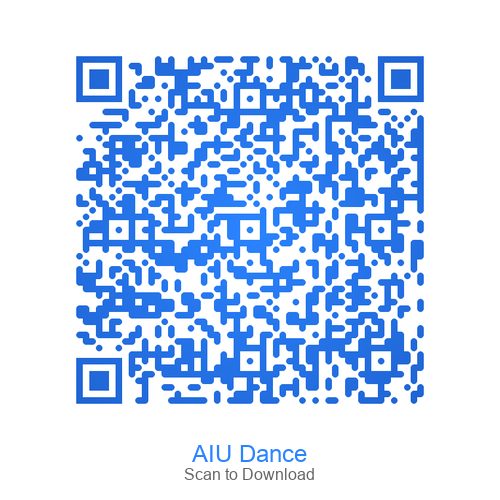
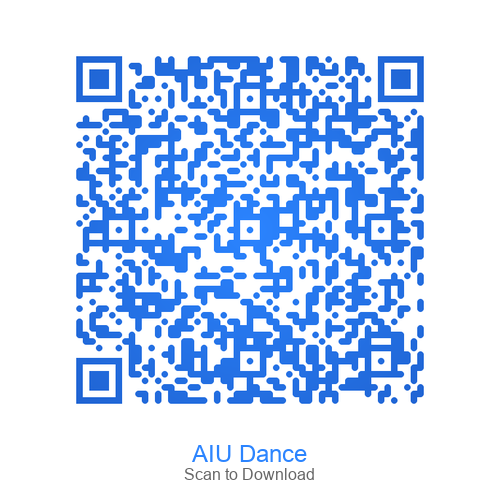
update: download page with new APK v1.0.2+3
- Updated download link to v1.0.2-fixed release
- Updated APK size to 28 MB
- Regenerated QR code for new APK version
- Ready for Firebase deployment

diff --git a/public/download.html b/public/download.html
@@ -187,17 +187,17 @@
         </div>
         
         <div class="size-info">
-            <strong>📦 Dimensiune:</strong> 29.4 MB (optimizată)<br>
+            <strong>📦 Dimensiune:</strong> 28 MB (optimizată)<br>
             <strong>📱 Compatibilitate:</strong> Android 6.0+<br>
             <strong>🔧 Arhitectură:</strong> ARM64 (99% telefoane)
         </div>
         
         <!-- Main Download Button -->
-        <a href="https://github.com/AdiVlop/aiu-dance-app/releases/download/v1.0.1-build2/app-release.apk"
+        <a href="https://github.com/AdiVlop/aiu-dance-app/releases/download/v1.0.2-fixed/app-release.apk"
            class="download-btn" 
-           download="aiu_dance_v1.0.1.apk"
+           download="aiu_dance_v1.0.2.apk"
            style="background: linear-gradient(45deg, #4CAF50, #45a049); margin-top: 20px;">
-            📱 Download AIU Dance APK v1.0.1+2 (Network Fix)
+            📱 Download AIU Dance APK v1.0.2+3 (Supabase Fix)
         </a>
         
         <br><br>

diff --git a/qr_generator.py b/qr_generator.py
@@ -17,7 +17,7 @@ def create_aiu_dance_qr():
     """
     
     # URL-ul de download
-    download_url = "https://github.com/AdiVlop/aiu-dance-app/releases/download/v1.0.1-build2/app-release.apk"
+    download_url = "https://github.com/AdiVlop/aiu-dance-app/releases/download/v1.0.2-fixed/app-release.apk"
     
     # Configurare QR code
     qr = qrcode.QRCode(
@@ -98,7 +98,7 @@ def create_simple_qr():
     """
     Creează un QR code simplu dacă versiunea cu stil nu funcționează
     """
-    download_url = "https://github.com/AdiVlop/aiu-dance-app/releases/download/v1.0.1-build2/app-release.apk"
+    download_url = "https://github.com/AdiVlop/aiu-dance-app/releases/download/v1.0.2-fixed/app-release.apk"
     
     qr = qrcode.QRCode(
         version=1,
